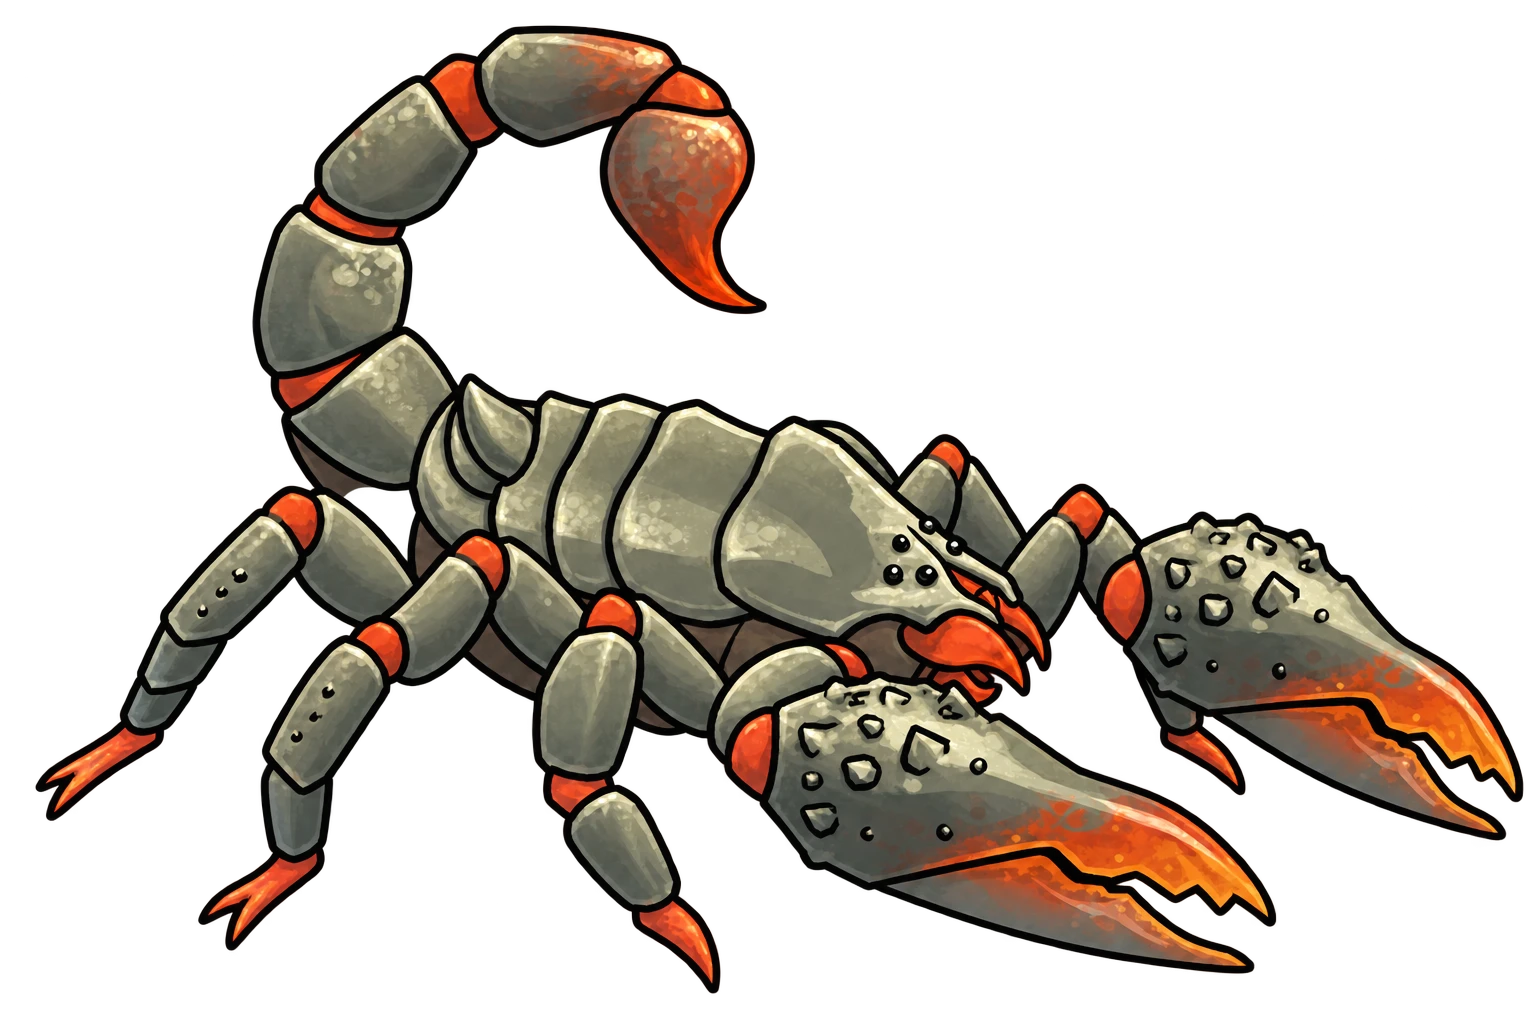
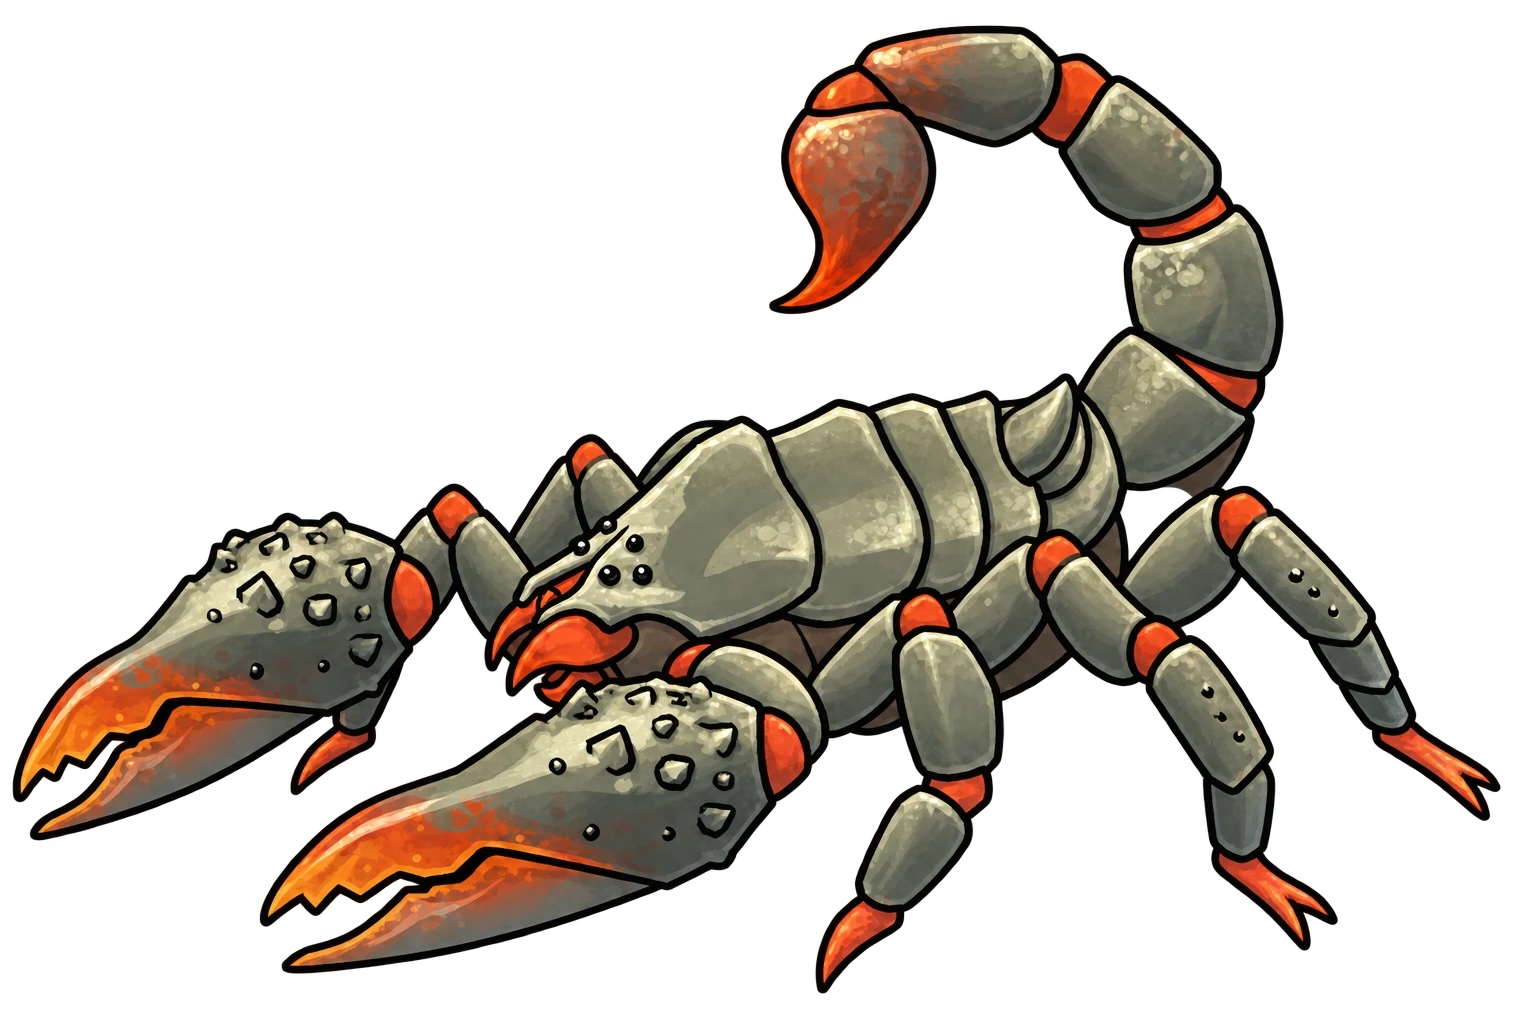
fix(arena): face radscorpion toward stage center, add mirror control

diff --git a/frontend/src/modules/rooms/components/ArenaCreatureSlot.vue b/frontend/src/modules/rooms/components/ArenaCreatureSlot.vue
@@ -20,6 +20,7 @@ interface Props {
   damageNumbers: Array<{ id: number; amount: number }>
   options: ArenaCreature[]
   pickerOpen: boolean
+  mirror?: boolean
 }
 
 const props = defineProps<Props>()
@@ -77,6 +78,7 @@ const healthPercent = (creature: ArenaCreatureView | null) =>
           :src="creatureImage"
           :alt="creature.name"
           class="h-full w-full object-contain p-2"
+          :class="{ 'face-center': props.mirror }"
           @error="onImageError"
         />
         <Icon v-else icon="mdi:paw" class="h-10 w-10 text-danger" />
@@ -111,6 +113,7 @@ const healthPercent = (creature: ArenaCreatureView | null) =>
           :src="image"
           alt=""
           class="h-10 w-10 shrink-0 object-contain"
+          :class="{ 'face-center': props.mirror }"
           @error="onImageError"
         />
         <Icon v-else icon="mdi:paw" class="h-10 w-10 shrink-0 text-danger" />
@@ -131,6 +134,10 @@ const healthPercent = (creature: ArenaCreatureView | null) =>
   position: relative;
   display: flex;
   flex-direction: column;
+}
+
+.face-center {
+  transform: scaleX(-1);
 }
 
 .slot-clear {

diff --git a/frontend/tests/unit/components/rooms/ArenaCreatureSlot.test.ts b/frontend/tests/unit/components/rooms/ArenaCreatureSlot.test.ts
@@ -16,7 +16,7 @@ const creature = (key: string, name = key): ArenaCreatureView => ({
   id: `${key}#0`,
 })
 
-const render = (selected: ArenaCreatureView | null) =>
+const render = (selected: ArenaCreatureView | null, mirror = false) =>
   mount(ArenaCreatureSlot, {
     props: {
       creature: selected,
@@ -24,6 +24,7 @@ const render = (selected: ArenaCreatureView | null) =>
       damageNumbers: [],
       options: [],
       pickerOpen: false,
+      mirror,
     },
   })
 
@@ -81,5 +82,10 @@ describe('ArenaCreatureSlot artwork', () => {
     expect(wrapper.get('[data-icon="mdi:paw"]').exists()).toBe(true)
     await wrapper.setProps({ creature: creature('radroach-swarm') })
     expect(wrapper.get('img').attributes('src')).toContain('/assembled/radroach.webp')
+  })
+
+  it('mirrors the sprite only when the mirror control is set', () => {
+    expect(render(creature('giant-radscorpion')).get('img').classes()).not.toContain('face-center')
+    expect(render(creature('giant-radscorpion'), true).get('img').classes()).toContain('face-center')
   })
 })
